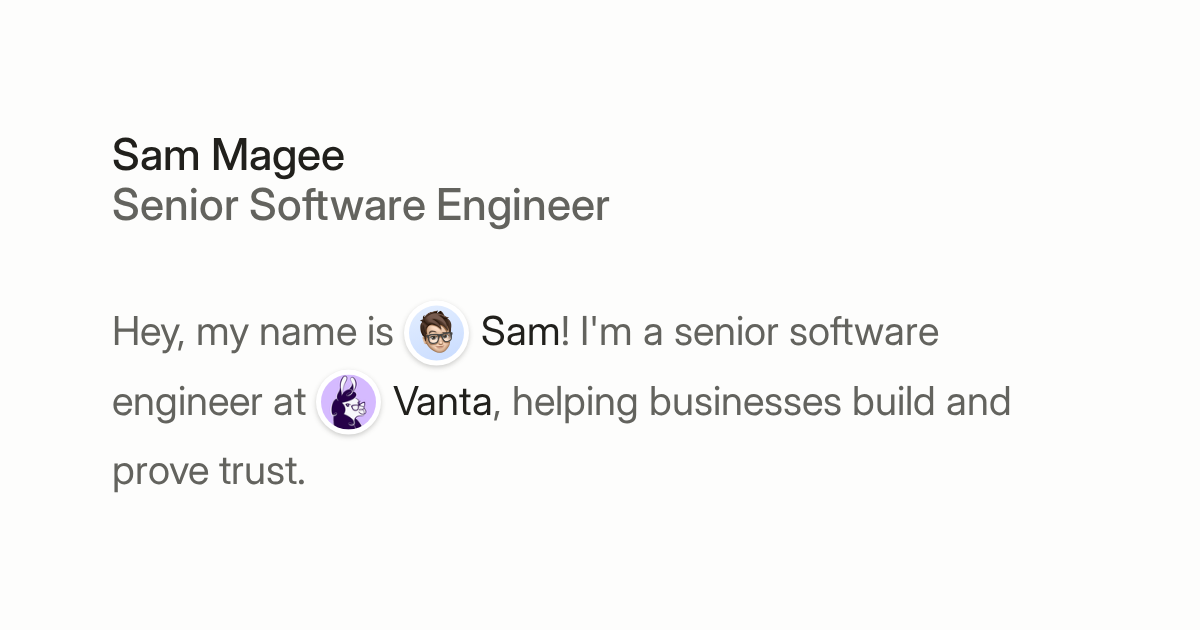
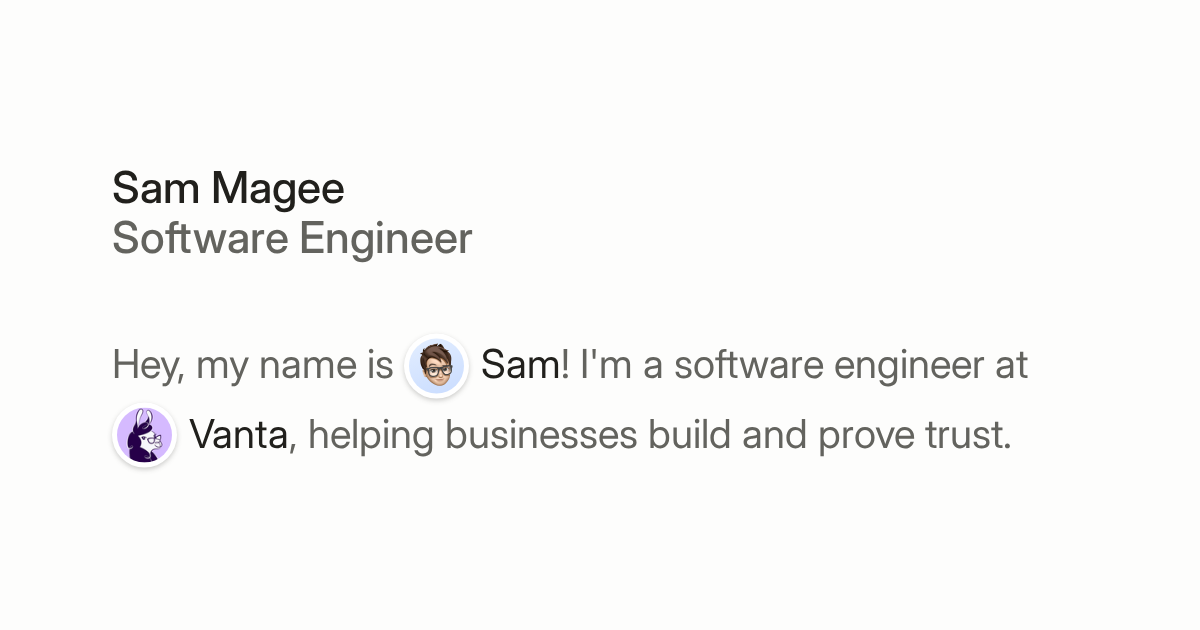
Drop 'Senior' from title; cache-bust social card (#30)

Changed region(s): [[0.0925, 0.4825, 0.8633, 0.7841], [0.0925, 0.2111, 0.5242, 0.4222]]

diff --git a/src/lib/site.ts b/src/lib/site.ts
@@ -1,16 +1,18 @@
 export const SITE_ORIGIN = 'https://sammagee.me'
 export const SITE_URL = `${SITE_ORIGIN}/`
 export const NAME = 'Sam Magee'
-export const JOB_TITLE = 'Senior Software Engineer'
+export const JOB_TITLE = 'Software Engineer'
 export const X_HANDLE = '@sammagee'
 export const PERSON_ID = `${SITE_URL}#person`
 export const WEBSITE_ID = `${SITE_URL}#website`
 export const AVATAR_URL = `${SITE_URL}images/social/avatar.png`
+// Bump when public/images/social/card.png changes so X and other crawlers refetch it.
+export const SOCIAL_CARD_VERSION = '2'
 export const SOCIAL_CARD = {
-  url: `${SITE_URL}images/social/card.png`,
+  url: `${SITE_URL}images/social/card.png?v=${SOCIAL_CARD_VERSION}`,
   width: '1200',
   height: '630',
-  alt: "Sam Magee, Senior Software Engineer. Hey, my name is Sam! I'm a senior software engineer at Vanta, helping businesses build and prove trust.",
+  alt: "Sam Magee, Software Engineer. Hey, my name is Sam! I'm a software engineer at Vanta, helping businesses build and prove trust.",
 }
 
 export function serializeJsonLd(data: unknown) {

diff --git a/scripts/social-images/templates.ts b/scripts/social-images/templates.ts
@@ -52,8 +52,8 @@ export function cardHtml(assets: Assets) {
     `,
     `<main class="card">
       <div class="name">Sam Magee</div>
-      <div class="title">Senior Software Engineer</div>
-      <p class="bio">Hey, my name is ${avatar(assets)}<span class="strong">Sam</span>! I'm a senior software engineer at ${logo(assets)}<span class="strong">Vanta</span>, helping businesses build and prove trust.</p>
+      <div class="title">Software Engineer</div>
+      <p class="bio">Hey, my name is ${avatar(assets)}<span class="strong">Sam</span>! I'm a software engineer at ${logo(assets)}<span class="strong">Vanta</span>, helping businesses build and prove trust.</p>
     </main>`
   )
 }

diff --git a/src/components/home/who-section.tsx b/src/components/home/who-section.tsx
@@ -21,9 +21,9 @@ export function WhoSection() {
           <InlineAvatar className="self-center" />
           <span>Sam</span>
         </span>
-        ! I&apos;m a senior software engineer at <VantaLink />, helping
-        businesses build and prove trust. I design and build software that makes
-        complex work feel simple.
+        ! I&apos;m a software engineer at <VantaLink />, helping businesses
+        build and prove trust. I design and build software that makes complex
+        work feel simple.
       </p>
       <p className="mt-4 text-gray-1100">
         Previously, I worked at <CompanyStack companies={PREVIOUS} />.

diff --git a/src/components/home/lib/metadata.ts b/src/components/home/lib/metadata.ts
@@ -1,8 +1,8 @@
 import { NAME, SITE_URL, SOCIAL_CARD, X_HANDLE } from '@/lib/site'
 
-export const TITLE = 'Sam Magee – Senior Software Engineer at Vanta'
+export const TITLE = 'Sam Magee – Software Engineer at Vanta'
 export const DESCRIPTION =
-  'Sam Magee is a senior software engineer at Vanta, helping businesses build and prove trust. Previously at Uber, Marqeta, and Principal.'
+  'Sam Magee is a software engineer at Vanta, helping businesses build and prove trust. Previously at Uber, Marqeta, and Principal.'
 export const PROFILES = [
   'https://github.com/sammagee',
   'https://www.linkedin.com/in/sammagee',
